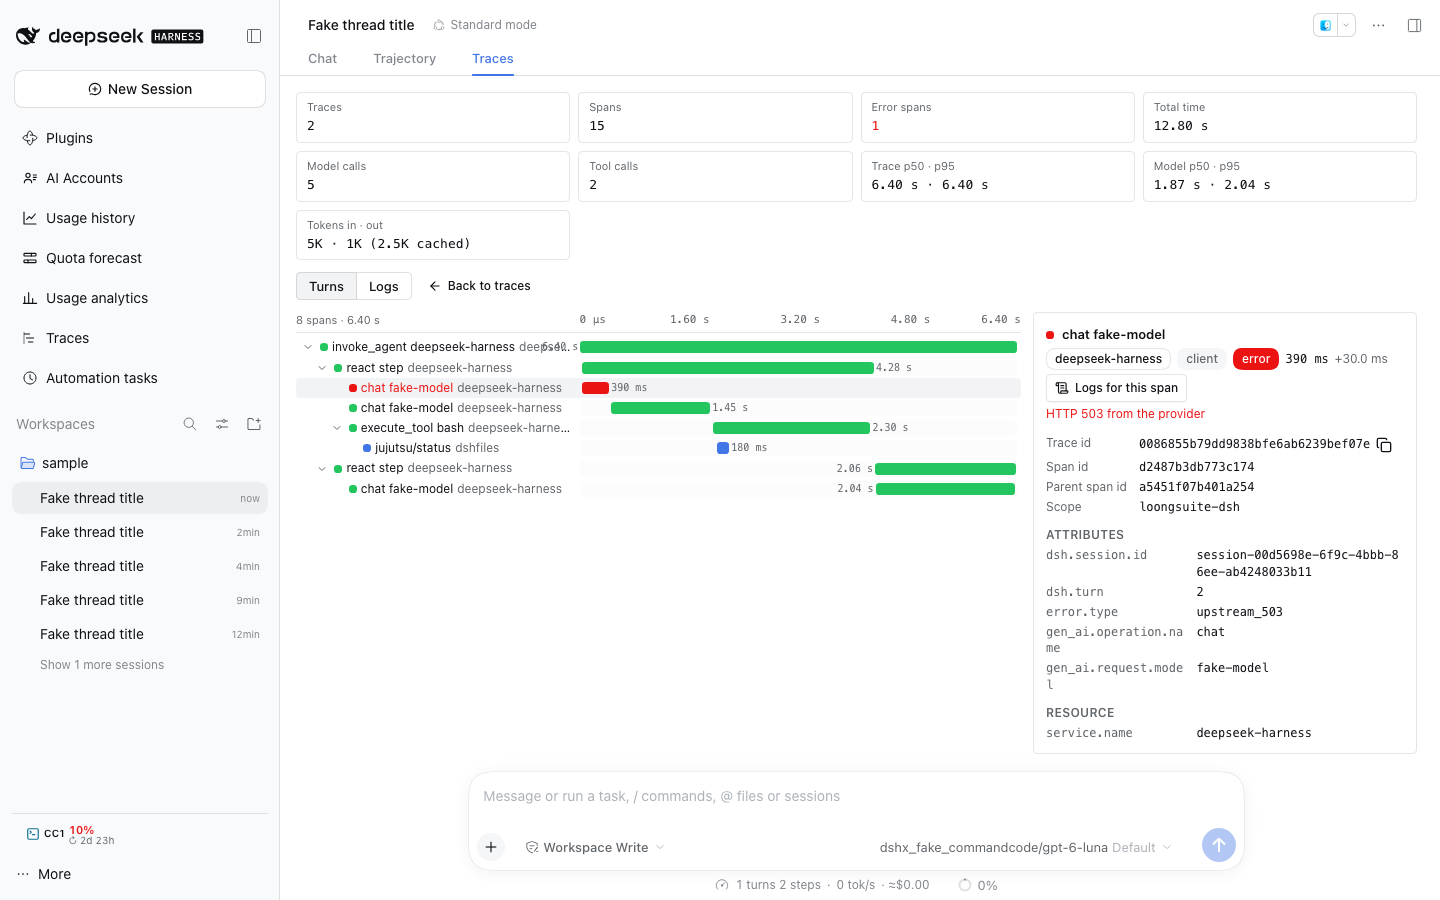
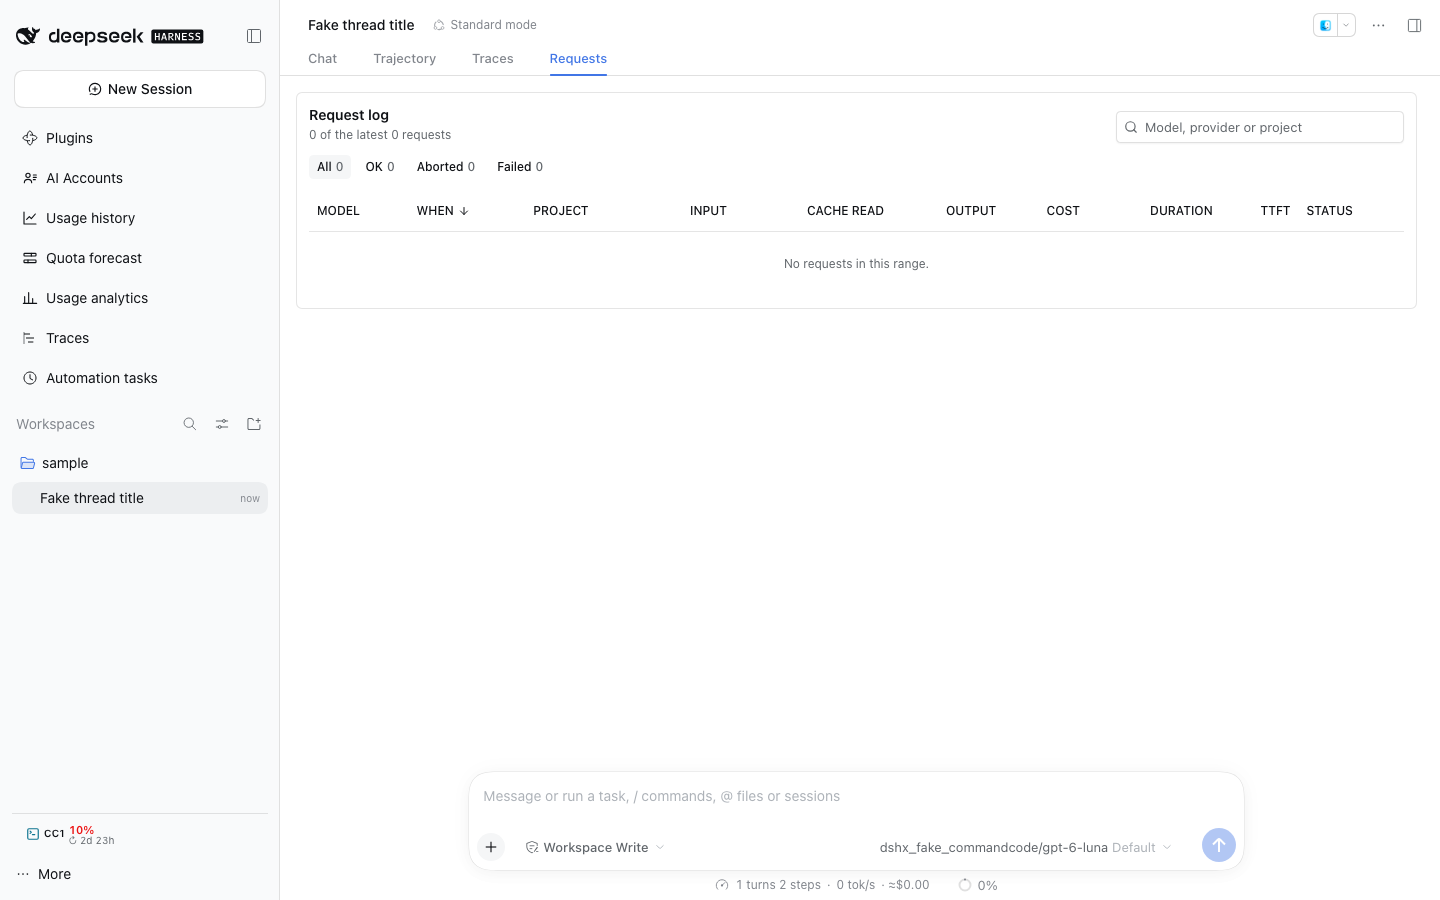
feat(traces): add per-thread Requests tab
Reuse the Usage request-log component in a conversation view and filter its queries by the active Session id, keeping the familiar request controls available in a thread-scoped tab.

diff --git a/plugins/@dshfiles/traces/src/client.tsx b/plugins/@dshfiles/traces/src/client.tsx
@@ -15,6 +15,7 @@ import { TRACES_ALERTS_LOCALE_NAMESPACE, tracesAlertsLocale } from './alerts/ale
 import { TRACES_LOCALE_NAMESPACE, tracesLocale } from './locales.js'
 import { createThreadOpener } from './open-thread.js'
 import { TracesPanel } from './panel.js'
+import { SessionRequestsView } from './session-requests-view.js'
 import { SessionTracesView } from './session-view.js'
 import { ThreadLinks } from './thread-links.js'
 import { TurnTraceButton } from './turn-trace-button.js'
@@ -61,6 +62,31 @@ export default defineClient({
         decorate((props: SessionViewProps) => (
           <PluginQueryProvider>
             <SessionTracesView {...props} openThread={openThread} t={translate} />
+          </PluginQueryProvider>
+        )),
+      ),
+    )
+    ctx.slots.inject('conversation.view', () =>
+      ctx.slots.register(
+        {
+          name: 'conversation.view',
+          id: 'dshfiles-traces-requests',
+          order: 12,
+          label: () => translate('tabRequests'),
+          locale: TRACES_LOCALE_NAMESPACE,
+          inject: sessionId => ({ sessionId }),
+        },
+        decorate((props: SessionViewProps) => (
+          <PluginQueryProvider>
+            <SessionRequestsView
+              {...props}
+              openThread={target => {
+                const opened = openThread({ sessionId: target.sessionId, focus: null })
+                if (opened === null) return 'opened'
+                if (target.parentSessionId !== null && openThread({ sessionId: target.parentSessionId, focus: null }) === null) return 'parent'
+                return 'missing'
+              }}
+            />
           </PluginQueryProvider>
         )),
       ),

diff --git a/plugins/@dshfiles/usage/src/request-log.tsx b/plugins/@dshfiles/usage/src/request-log.tsx
@@ -61,6 +61,7 @@ const threadLabel = (row: RequestView): string => {
 export const RequestLog = (props: {
   readonly range: { readonly from: number; readonly to: number }
   readonly purposes: readonly RequestPurpose[] | undefined
+  readonly sessionId?: string
   readonly search: string
   readonly onSearch: (search: string) => void
   readonly openThread: OpenThread
@@ -73,13 +74,14 @@ export const RequestLog = (props: {
   const query: RequestQuery = {
     from: props.range.from,
     to: props.range.to,
-    ...(props.purposes === undefined ? {} : { purposes: [...props.purposes] }),
-    ...(search.length === 0 ? {} : { search }),
-    ...(status === 'all' ? {} : { status }),
     sort: sort.column,
     direction: sort.direction,
     limit: PAGE_SIZE,
   }
+  if (props.purposes !== undefined) query.purposes = [...props.purposes]
+  if (props.sessionId !== undefined) query.sessionId = props.sessionId
+  if (search.length > 0) query.search = search
+  if (status !== 'all') query.status = status
   const page = useQuery({
     queryKey: ['dshfiles-usage', 'requests', query],
     queryFn: ({ signal }) => runHostRequest({ signal, request: hostSignal => api.requests(query, { signal: hostSignal }) }),
@@ -166,7 +168,7 @@ export const RequestLog = (props: {
               </TableRow>
             ) : null}
             {data?.rows.map(row => (
-              <TableRow key={row.id} className="dshx:cursor-pointer" onClick={() => open(row)}>
+              <TableRow key={row.id} className="dshx:cursor-pointer" data-session-id={row.sessionId} onClick={() => open(row)}>
                 <TableCell className="dshx:max-w-56">
                   <button
                     type="button"

diff --git a/tooling/dshx/e2e/support/plugin-journeys/traces.steps.ts b/tooling/dshx/e2e/support/plugin-journeys/traces.steps.ts
@@ -546,7 +546,21 @@ Then('the thread logs list only its own records', async ({ page }: { page: Page 
   })
 })
 
+Then('the thread Requests tab lists only its requests', async ({ page }: { page: Page }) => {
+  await conversationTab(page, 'Requests').click()
+  const view = page.getByTestId('requests-session-view')
+  await recordAssertion(page, 'traces-thread-requests-tab', async () => {
+    await expect(view).toBeVisible()
+    const rows = view.locator('tbody tr[data-session-id]')
+    await expect(view.getByText('No requests in this range.', { exact: true })).toBeVisible()
+    const currentSessionId = await view.getAttribute('data-session-id')
+    expect(currentSessionId).toBeTruthy()
+    expect(await rows.evaluateAll(elements => elements.every(row => row.getAttribute('data-session-id') === currentSessionId))).toBe(true)
+  })
+})
+
 Then('the thread Traces tab fits a 480 px wide window', async ({ page }: { page: Page }) => {
+  await conversationTab(page, 'Traces').click()
   await page.setViewportSize({ width: 480, height: 900 })
   await sessionView(page).getByRole('radio', { name: 'Turns', exact: true }).click()
   await recordAssertion(page, 'traces-thread-tab-narrow', async () => {

diff --git a/plugins/@dshfiles/traces/src/session-requests-view.tsx b/plugins/@dshfiles/traces/src/session-requests-view.tsx
@@ -1,0 +1,17 @@
+import { RequestLog } from '@dshfiles/usage/request-log'
+import { useState } from 'react'
+
+const HISTORY_RANGE = { from: 0, to: Number.MAX_SAFE_INTEGER }
+
+export const SessionRequestsView = (props: {
+  readonly sessionId: string
+  readonly openThread: (target: { readonly sessionId: string; readonly parentSessionId: string | null }) => 'opened' | 'parent' | 'missing'
+}): JSX.Element => {
+  const [search, setSearch] = useState('')
+
+  return (
+    <main className="dshx-root dshx:h-full dshx:min-h-0 dshx:overflow-auto dshx:p-4" data-testid="requests-session-view" data-session-id={props.sessionId}>
+      <RequestLog range={HISTORY_RANGE} purposes={undefined} sessionId={props.sessionId} search={search} onSearch={setSearch} openThread={props.openThread} />
+    </main>
+  )
+}

diff --git a/plugins/@dshfiles/usage/dshx.config.ts b/plugins/@dshfiles/usage/dshx.config.ts
@@ -4,7 +4,7 @@ import { defineConfig } from '@dshfiles/dshx'
 export default defineConfig({
   name: '@dshfiles/usage',
   // The background-jobs board indexes the same session logs; this module is the one frame reader.
-  modules: { api: 'src/api.ts', 'session-log': 'src/session-log.ts' },
+  modules: { api: 'src/api.ts', 'request-log': 'src/request-log.tsx', 'session-log': 'src/session-log.ts' },
   host: { entry: 'src/host.ts', bundleDependencies: ['@dshfiles/ai-accounts', '@dshfiles/credential-port'] },
   client: { entry: 'src/client.tsx', shared: '@dshfiles/shared-runtime', vite: { plugins: [pluginUiVite()] } },
   build: { sourcemap: true, declarations: true, minify: true },

diff --git a/plugins/@dshfiles/traces/src/locales.ts b/plugins/@dshfiles/traces/src/locales.ts
@@ -13,6 +13,7 @@ const en = {
   clearConfirm: 'Clear traces',
   cancel: 'Cancel',
   tabTraces: 'Traces',
+  tabRequests: 'Requests',
   tabOperations: 'Operations',
   tabErrors: 'Errors',
   tabLogs: 'Logs',
@@ -183,6 +184,7 @@ const zh = {
   clearConfirm: '清除追踪',
   cancel: '取消',
   tabTraces: '追踪',
+  tabRequests: '请求',
   tabOperations: '操作',
   tabErrors: '错误',
   tabLogs: '日志',

diff --git a/plugins/@dshfiles/traces/README.md b/plugins/@dshfiles/traces/README.md
@@ -8,7 +8,7 @@
 
 ![Metric list with one chart per metric](docs/screenshots/metric-charts.png)
 
-![Per-thread Traces tab with summary and span waterfall](docs/screenshots/thread-traces-tab.png)
+![Per-thread Requests tab scoped to the selected thread](docs/screenshots/thread-traces-tab.png)
 
 ![Alert rules over stored telemetry](docs/screenshots/alert-rules.png)
 
@@ -62,7 +62,8 @@ interaction made as client spans and the Host spans those calls caused nested un
 Every thread gets a **Traces** tab in its conversation view, right after **Trajectory** (a `conversation.view`
 entry, `order: 11`; Trajectory is 10 and only shows with developer tools on). It shows that thread's telemetry only:
 every trace in which any span carries `dsh.session.id` = the thread's Session id, so plugin spans nested under an agent
-turn count even without the attribute.
+turn count even without the attribute. A **Requests** tab follows at `order: 12`; it reuses the Usage request log and
+filters it by the current Session id, with the same status, search and sorting controls.
 
 - **Summary**: traces, spans, error spans, total trace time, model calls (`gen_ai.operation.name = chat`, one per
   attempt), tool calls (`execute_tool`), trace and model-call p50 · p95, and `gen_ai.usage.*` token totals summed over
